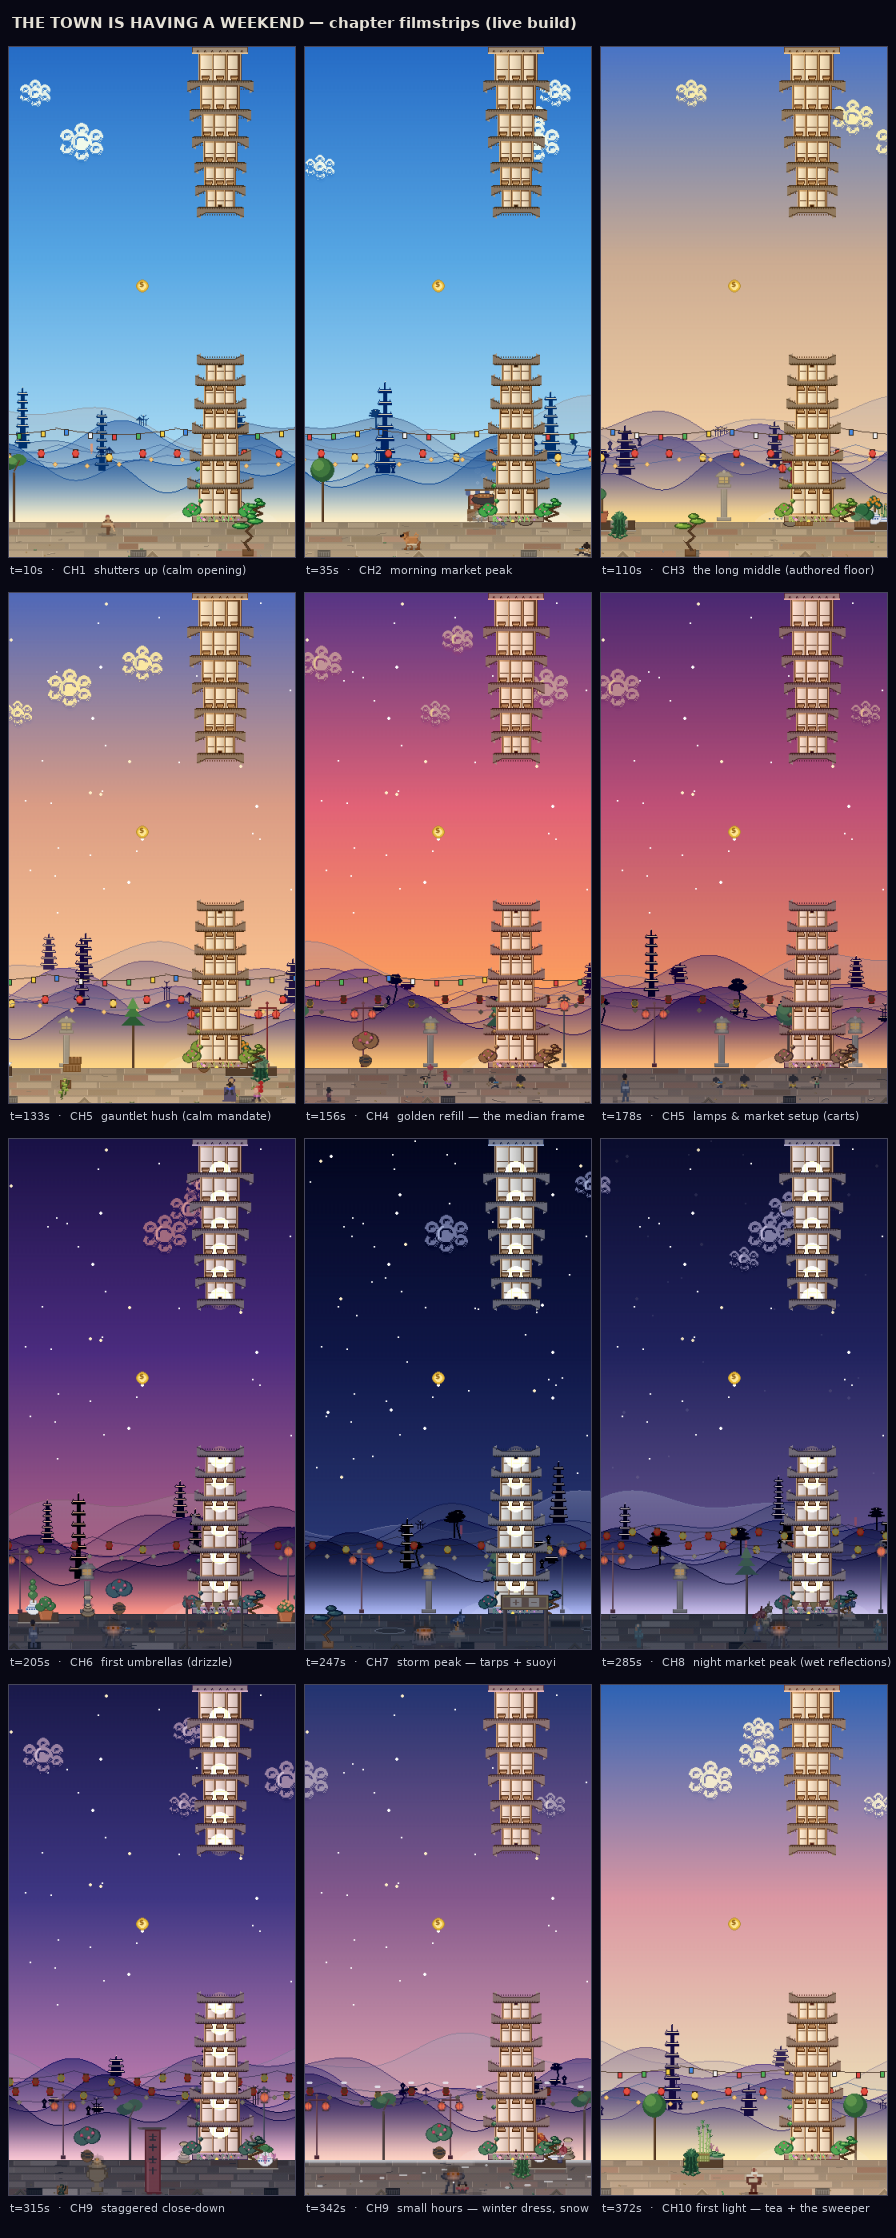
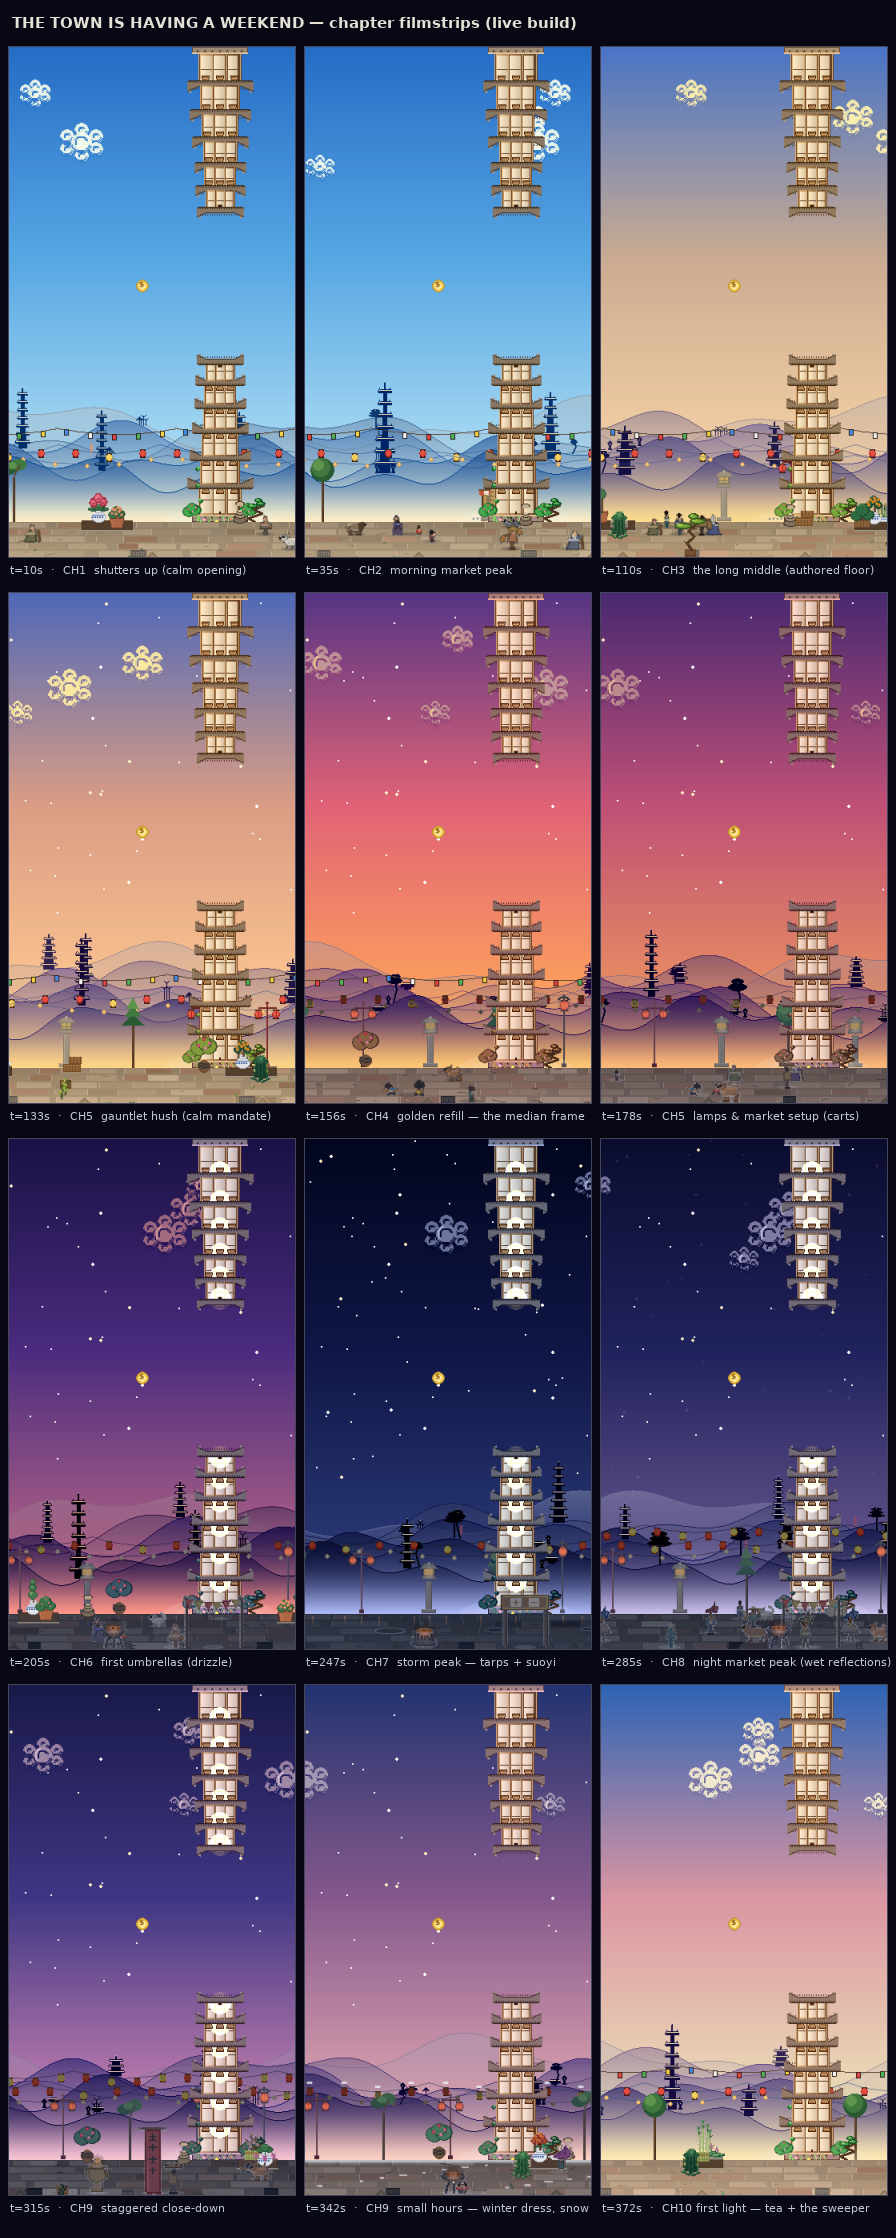
Depth round 3: population, unified value ladder, night grounding, one front pass
Critique-2 fixes. The depth ladder finally has bodies: near crowd 12-16
target / cap 18 with a flatter depth deal, scenario slots every 384 px —
busy hours now sort 20-66 depth-separated pairs on screen (was 1 across the
whole sheet). Every far cast figure rides the shared bake (sweeper, napper,
shelterers, lamplighter, the noodle-spill dog), so scale, aerial dim, outline
and shadow coverage are 100% at every phase, and the flat bake dim became a
per-tier ramp (back kerb 217 -> front 240) with the back kerb baked too —
peak luminance now rises monotonically toward the camera instead of
inverting at the lane seam. The contact cue inverts after dusk (pale lantern
pool instead of an invisible dark ellipse) and pools rather than smears; a
baked 1px silhouette outline (dark by day, pale after dusk) floors figure
contrast on wet night paving. The z-buffer now flushes in two passes around
the pillars: only back-kerb feet (<=594) draw behind them, everything sunk
into the walk joins the near lane's front pass in one true cross-lane
y-sort. Tree cadence rebalanced so most lamp gaps hold a tree.

Claude-Session: https://claude.ai/code/session_01Kj5s52r3By6kkXz6gW43nG

diff --git a/game/foreground_promenade.py b/game/foreground_promenade.py
@@ -88,18 +88,22 @@ _SHADOW_CACHE = {}
 
 
 def _shadow(surf, cx, feet_y, wpx, night):
-    """Soft contact ellipse under a cast figure — the grounding cue that
-    separates a low-contrast figure from the paving without touching either's
-    colour (the mid-walk tiers otherwise wash out against the darker back
-    plate and the lantern pools at night)."""
-    a = 55 - int(20 * min(1.0, night))
-    key = (wpx, a)
+    """Soft contact pool under a cast figure — the grounding cue that separates
+    a low-contrast figure from the paving without touching either's colour. By
+    day it is a dark cast shadow; after dusk the cue INVERTS to a faint pale
+    pool (lantern spill), because a dark ellipse does nothing on dark wet
+    stone — exactly the frames that need grounding most. Height tracks width
+    (~5:1) so a wide figure gets a pool, not a smear."""
+    dark = night < 0.5
+    h = max(3, wpx // 5)
+    key = (wpx, dark)
     sp_ = _SHADOW_CACHE.get(key)
     if sp_ is None:
-        sp_ = pygame.Surface((wpx, 4), pygame.SRCALPHA)
-        pygame.draw.ellipse(sp_, (18, 20, 30, a), (0, 0, wpx, 4))
+        sp_ = pygame.Surface((wpx, h), pygame.SRCALPHA)
+        col = (18, 20, 30, 55) if dark else (216, 224, 240, 34)
+        pygame.draw.ellipse(sp_, col, (0, 0, wpx, h))
         _SHADOW_CACHE[key] = sp_
-    surf.blit(sp_, (cx - wpx // 2, feet_y - 2))
+    surf.blit(sp_, (cx - wpx // 2, feet_y - h // 2 - 1))
 
 # ── weather the street reacts to ─────────────────────────────────────────────
 #
@@ -607,6 +611,19 @@ def draw_strollers(surf, sx, pal, *, t=0.0, umbrella=None, variant=0):
     _ped._draw_one(surf, sx, GROUND_Y - 1, pal, v, night, t)
 
 
+def _draw_shelterer(surf, sx, pal, *, t=0.0, h=0):
+    """One huddled umbrella-holder under the standard far-cast drawer contract
+    (colours dealt from the slot hash `h`), so shelterers ride the depth law's
+    bake like the rest of the cast."""
+    night = _nightf(pal)
+    base = (78 + (h >> 2 & 63), 84 + (h >> 5 & 55), 108 + (h >> 8 & 47))
+    shirt = _retint_person(base, night)
+    body_y = GROUND_Y - 1 - 8 - 3
+    _draw_bench_person(surf, sx, body_y, shirt, _shade(shirt, -34),
+                       _retint_person((60, 45, 38), night), night=night)
+    _draw_umbrella(surf, sx + 3, body_y - 6, (h >> 2), night=night)
+
+
 def _shelter_figures(surf, w, scroll, pal, t):
     """A few people standing huddled under umbrellas at stable world slots, shown
     only once the open deck has emptied (heavy rain / real snow) — so the street
@@ -616,26 +633,22 @@ def _shelter_figures(surf, w, scroll, pal, t):
     sev = max(_CUR_RAIN, _CUR_SNOW)
     if sev < 0.45:
         return
-    night = _nightf(pal)
     for sx, k in sp._world_xs(scroll, w, 250, x0=30, mult=sp.GROUND_MULT, margin=40):
         h = (k * 0x9E3779B1) & 0xFFFFFFFF
         if (h & 3) != 0:                       # ~1 in 4 slots is occupied
             continue
         bx = sx + 6 + (h >> 4 & 7)
-        base = (78 + (h >> 6 & 63), 84 + (h >> 9 & 55), 108 + (h >> 12 & 47))
-        shirt = _retint_person(base, night)
-        shirt_dk = _shade(shirt, -34)
-        hair = _retint_person((60, 45, 38), night)
-        # Standing still (sheltering) — no gait, feet planted on the kerb.
-        body_y = GROUND_Y - 1 - 8 - 3
-        def _figure(s, bx=bx, body_y=body_y, shirt=shirt, shirt_dk=shirt_dk,
-                    hair=hair, h=h):
-            _draw_bench_person(s, bx, body_y, shirt, shirt_dk, hair, night=night)
-            _draw_umbrella(s, bx + 3, body_y - 6, (h >> 2), night=night)
-        # Shelterers spread through the walk's depth like any other cast.
-        dy = 2 + (h >> 16 & 7) + (h >> 20 & 3)          # 2..12, stable per slot
-        _zbuf.enqueue(GROUND_Y - 1 + dy, TB_CAST,
-                      lambda s, f=_figure, d=dy: f(_sunk(s, d)))
+        # Shelterers spread through the walk's depth on the band's tier pitch
+        # and ride the shared bake so they scale, dim, and shadow like any
+        # other cast.
+        d_eff = _FAR_TIER_DY[(h >> 16) % 3]
+        fyc = GROUND_Y - 1 + d_eff
+
+        def _fig(s, bx=bx, h=h, fyc=fyc, d_eff=d_eff):
+            from game import foreground_near_lane as _nl
+            _nl._scaled_cast(s, _draw_shelterer, bx, _CUR_PAL,
+                             1.0 + 0.0134 * d_eff, feet_y=fyc, h=h & 0xFFFF)
+        _zbuf.enqueue(fyc, TB_CAST, _fig)
 
 
 # ── KIOSK / vendor stall: a pagoda-roofed market stall ───────────────────────
@@ -1007,9 +1020,10 @@ def _ground_furniture(surf, w, scroll, pal, fd=1.0):
 # world-anchored, no flicker (same idiom as the mountain-ornament fix). Members
 # animate in place from the live clock `t`; positions ride the scroll.
 
-_SCENARIO_PERIOD = 640          # world-px between scene SLOTS -> lots of open road;
-                                # most calm slots are also empty (density gate), so a
-                                # vignette is an occasional event, not a metronome.
+_SCENARIO_PERIOD = 384          # world-px between scene SLOTS — dense enough that a
+                                # busy hour keeps ~1 vignette on screen (the depth
+                                # ladder needs bodies to sort); calm hours still read
+                                # open because the density gate empties most slots.
 _SCENE_MARGIN = 220             # wide enough to slide a whole scene in/out smoothly
 
 # ── re-themed cast + hero beats (Chinese market) ──────────────────────────────
@@ -1437,8 +1451,9 @@ def _scene_pastoral(emit, bx, pal, t, rng, pick=None):
                                dict(t=t, kind=rng.choice(('pigeons', 'cat', 'hen', 'duck')))))
 
 def _scene_lamplighter(emit, bx, pal, t, rng, pick=None):
-    """A lamplighter kindling the street lanterns at dusk."""
-    emit(TB_CAST, lambda s: draw_lamplighter(s, bx, pal, t=t), dy=2)
+    """A lamplighter kindling the street lanterns at dusk — on the back kerb,
+    where the lamps stand."""
+    emit(TB_CAST, dy=0, cast=(draw_lamplighter, bx, dict(t=t)))
 
 def _scene_dawn_setup(emit, bx, pal, t, rng, pick=None):
     """Vendors assembling the morning market."""
@@ -1498,17 +1513,25 @@ def _happenings(surf, scroll, pal, phase, t):
             bob = 1 if (k > 0.62 and int(t * 6) % 2) else 0
             _zbuf.enqueue(GROUND_Y + 8, TB_CAST, lambda s, sx=sx, spill=spill: (
                 pygame.draw.rect(s, spill, (sx - 2, GROUND_Y + 6, 4, 2))))
-            _zbuf.enqueue(GROUND_Y + 8, TB_CAST,
-                          lambda s, dog_x=dog_x, bob=bob: draw_dog(
-                              _sunk(s, 9), dog_x, pal, t=t, variant=2 + bob))
+
+            def _hdog(s, dog_x=dog_x, bob=bob):
+                from game import foreground_near_lane as _nl
+                _nl._scaled_cast(s, draw_dog, dog_x, pal, 1.0 + 0.0134 * 9,
+                                 feet_y=GROUND_Y + 8, t=t, variant=2 + bob)
+            _zbuf.enqueue(GROUND_Y + 8, TB_CAST, _hdog)
+
+
+def draw_sweeper_cast(surf, sx, pal, *, t=0.0, ph=0.0):
+    """Signature adapter: the weekend kit's sweeper under the standard far-cast
+    drawer contract, so it rides the depth law's bake like everyone else."""
+    _wkit.draw_sweeper(surf, sx, GROUND_Y - 1, _nightf(pal), t, phase=ph, pal=pal)
 
 
 def _scene_sweeper(emit, bx, pal, t, rng, pick=None):
     """The first inhabitant of the morning: the sweeper working a besom over
     yesterday's street, pile inching ahead of the twigs."""
     ph = rng.random() * 1.3
-    emit(TB_CAST, lambda s: _wkit.draw_sweeper(s, bx, GROUND_Y - 1, _nightf(pal),
-                                               t, phase=ph, pal=pal), dy=8)
+    emit(TB_CAST, dy=9, cast=(draw_sweeper_cast, bx, dict(t=t, ph=round(ph, 2))))
 
 
 def _scene_bench(emit, bx, pal, t, rng, pick=None):
@@ -1539,7 +1562,7 @@ def _scene_stroll(emit, bx, pal, t, rng, pick=None):
 
 def _scene_rest(emit, bx, pal, t, rng, pick=None):
     """A napper on a mat."""
-    emit(TB_CAST, lambda s: draw_napper(s, bx, pal, t=t), dy=6)
+    emit(TB_CAST, dy=9, cast=(draw_napper, bx, dict(t=t)))
 
 def _scene_campfire(emit, bx, pal, t, rng, pick=None):
     """A campfire with cozy pool adults + kids gathered (lit by the drawer at night)."""
@@ -1957,21 +1980,18 @@ def _place_scenarios(surf, w, scroll, pal, t, roster, density, x0=40):
                 if cast is not None:
                     drawer, x, kw = cast
                     d_eff = _FAR_TIER_DY[max(0, min(2, _far_tier(dy) + tshift))]
-                    if d_eff:
-                        fyc = GROUND_Y - 1 + d_eff
-                        sc = 1.0 + 0.0134 * d_eff
+                    fyc = GROUND_Y - 1 + d_eff
+                    sc = 1.0 + 0.0134 * d_eff
 
-                        def _draw(s, drawer=drawer, x=x, kw=kw, fyc=fyc, sc=sc):
-                            # _scaled_cast draws the contact shadow itself.
-                            from game import foreground_near_lane as _nl
-                            _nl._scaled_cast(s, drawer, x, _CUR_PAL, sc,
-                                             feet_y=fyc, **kw)
-                        _zbuf.enqueue(fyc, tier, _draw)
-                    else:
-                        def _draw(s, drawer=drawer, x=x, kw=kw):
-                            _shadow(s, x, GROUND_Y - 1, 16, _nightf(_CUR_PAL))
-                            drawer(s, x, _CUR_PAL, **kw)
-                        _zbuf.enqueue(GROUND_Y - 1, tier, _draw)
+                    def _draw(s, drawer=drawer, x=x, kw=kw, fyc=fyc, sc=sc):
+                        # _scaled_cast draws the contact shadow + aerial dim +
+                        # outline itself; the back kerb goes through the same
+                        # bake at scale 1.0 so the band's value ladder has no
+                        # native/baked seam.
+                        from game import foreground_near_lane as _nl
+                        _nl._scaled_cast(s, drawer, x, _CUR_PAL, sc,
+                                         feet_y=fyc, **kw)
+                    _zbuf.enqueue(fyc, tier, _draw)
                     return
                 if dy:
                     _zbuf.enqueue(GROUND_Y - 1 + dy, tier,

diff --git a/game/foreground_near_lane.py b/game/foreground_near_lane.py
@@ -249,11 +249,17 @@ def _scaled_cast(surf, cast_fn, sx, pal, scale, *, t=0.0, feet_y=NEAR_GROUND_Y,
     # loop collapses the key space to _CAST_WRAP frames per variant (the once-
     # per-8 s phase seam is invisible at this figure scale).
     tb = int(t * _CAST_FPS) % _CAST_WRAP
+    # Aerial perspective: the dim deepens with distance from the front kerb, so
+    # the band's value ladder agrees with its size ladder (a flat dim left the
+    # deepest tier the brightest — an inverted depth cue). ~2% per 9 px tier;
+    # the front kerb keeps the original 240 don't-outshine-the-parrot cap.
+    dv = 240 - int(max(0, NEAR_GROUND_Y - feet_y) * 0.52)
+    night = _nightf(pal)
     # Key on the biome phase BUCKET (set per frame by draw_near_lane), not id(pal):
     # the play palette is a fresh dict every frame, so id(pal) only ever hits within
     # a frame -- bucketing lets the bake survive across frames.
     key = (cast_fn.__name__, foot_w, foot_h, ss, smooth, pr._CUR_BUCKET, tb, flip,
-           tuple(sorted(kw.items())))
+           dv, tuple(sorted(kw.items())))
 
     def _render(scratch):
         deck = render_box[1] - 1         # scratch deck near the bottom edge
@@ -263,17 +269,32 @@ def _scaled_cast(surf, cast_fn, sx, pal, scale, *, t=0.0, feet_y=NEAR_GROUND_Y,
             cast_fn(scratch, render_box[0] // 2, pal, t=tb / _CAST_FPS, **kw)
         finally:
             pr.GROUND_Y = saved
+        # 1 px silhouette outline, baked with the figure: dark against day
+        # paving, pale after dusk (when the wet/dark ground swallows a dark
+        # edge) — the floor that keeps a figure findable at the low-contrast
+        # tiers regardless of its own fabric colours.
+        oc = (26, 30, 42, 130) if night < 0.45 else (172, 182, 202, 120)
+        try:
+            m = pygame.mask.from_surface(scratch)
+            wmax, hmax = scratch.get_size()
+            for px, py in m.outline(2):
+                for nx, ny_ in ((px - 1, py), (px + 1, py), (px, py - 1), (px, py + 1)):
+                    if (0 <= nx < wmax and 0 <= ny_ < hmax
+                            and scratch.get_at((nx, ny_)).a == 0):
+                        scratch.set_at((nx, ny_), oc)
+        except (pygame.error, IndexError):
+            pass
 
     # A LARGE near figure shouldn't pull focus from the parrot: knock its
     # brightest fabric down ~6% (applied pre-resample so a smoothscale averages
     # already-dimmed pixels).
     big = _spr.baked_sprite(key, render_box, (foot_w, foot_h), _render,
-                            dim=(240, 240, 240), smooth=smooth, flip=flip)
+                            dim=(dv, dv, dv), smooth=smooth, flip=flip)
     sw, _sh = big.get_size()
     # Contact shadow first, so every baked figure (crowd, performers, far-lane
     # scaled cast) is grounded and stays separable from the paving at the
     # low-contrast tiers.
-    pr._shadow(surf, sx, feet_y - 1, max(12, int(18 * scale)), _nightf(pal))
+    pr._shadow(surf, sx, feet_y - 1, max(12, int(18 * scale)), night)
     surf.blit(big, (sx - sw // 2, feet_y - foot_h))
 
 

diff --git a/game/foreground_zbuffer.py b/game/foreground_zbuffer.py
@@ -10,11 +10,14 @@ last and overlays one whose feet are higher.
 Selection (the `_world_xs`/`_slot_latch`/`_latch_prune` loops) is unchanged and
 still runs every frame; only the paint is deferred into a captured closure.
 
-Cross-lane depth is handled by WHERE each lane flushes relative to the gameplay
-pillars (see foreground.py / scenes.py): the far lane flushes behind the pillars,
-the near lane flushes in front of them — pillar bases sit between the two lanes'
-ground lines, so this places everything at the right depth without sorting the
-full-height pillar geometry into the queue.
+Cross-lane depth is handled by WHERE the queue flushes relative to the gameplay
+pillars (see foreground.py / scenes.py): pillar geometry bottoms out on the back
+kerb (y 594), so the far pass flushes only draws whose feet sit ON that kerb
+(behind the pillars), and everything deeper — far cast sunk into the walk AND
+the whole near lane — stays queued and flushes in front of the pillars, in ONE
+sorted pass. That both matches the ground plane (a figure standing 2-18 px in
+front of a pillar's base line must not draw behind the pillar) and gives true
+cross-lane y-sorting for free.
 """
 from __future__ import annotations
 
@@ -47,14 +50,21 @@ def enqueue(base_y, tiebreak, fn):
     _SEQ += 1
 
 
-def flush(surf):
-    """Paint everything queued so far, back-to-front, then clear the queue. The
-    `seq` term makes the sort total + deterministic and preserves submission order
-    within a (base_y, tiebreak) group (e.g. a performer enqueued after its crowd
-    still draws over it)."""
+def flush(surf, up_to=None):
+    """Paint queued draws back-to-front, then drop what was painted. With
+    `up_to`, only entries whose base_y <= up_to paint (the back-kerb pass that
+    runs behind the pillars); the rest stay queued for the front pass. The
+    `seq` term makes the sort total + deterministic and preserves submission
+    order within a (base_y, tiebreak) group (e.g. a performer enqueued after
+    its crowd still draws over it)."""
+    global _QUEUE
     if not _QUEUE:
         return
-    _QUEUE.sort(key=lambda c: (c[0], c[1], c[2]))
-    for _by, _tb, _seq, fn in _QUEUE:
+    if up_to is None:
+        batch, _QUEUE = _QUEUE, []
+    else:
+        batch = [c for c in _QUEUE if c[0] <= up_to]
+        _QUEUE = [c for c in _QUEUE if c[0] > up_to]
+    batch.sort(key=lambda c: (c[0], c[1], c[2]))
+    for _by, _tb, _seq, fn in batch:
         fn(surf)
-    _QUEUE.clear()

diff --git a/game/sidewalk_crowd.py b/game/sidewalk_crowd.py
@@ -31,9 +31,9 @@ _FAMILY = {"stroller": "pedestrian", "kids": "kid", "dog": "dog"}
 _SALT = {"stroller": 31, "kids": 41, "dog": 51}   # match the legacy per-row salts
 _GAIT_RATE = {"stroller": 1.0, "kids": 1.2, "dog": 1.9}
 
-_NEAR_CAP = 10             # hard ceiling regardless of density (perf)
-_BASE_N = 6               # target near-lane living count at full density
-_MARKET_N = 9             # fuller front lane through the night-market window
+_NEAR_CAP = 18             # hard ceiling regardless of density (perf)
+_BASE_N = 12              # target near-lane living count at full density
+_MARKET_N = 16            # fuller front lane through the night-market window
 _SPAWN_MARGIN = 120       # spawn/cull this far off the screen edges (world px)
 _SPAWN_COOLDOWN = 0.35    # min seconds between spawns (so they don't enter as a wall)
 _LEAVE_STAGGER = 0.8      # seconds between departures when the street empties
@@ -125,10 +125,12 @@ class SidewalkCrowd:
         e.facing = 1 if e.walk_vel > 0 else -1
         e.wave = 0.0
         # Depth across the front walk, dealt for the entity's whole life: 0 =
-        # the walk's mid-line, 1 = the kerb nearest the camera. Bottom-weighted
-        # so the front edge stays the busiest but no longer the only line, and
-        # nearer figures drift a touch faster for a cheap parallax read.
-        e.depth = random.random() ** 0.6
+        # the walk's mid-line, 1 = the kerb nearest the camera. Mildly
+        # bottom-weighted — the front edge stays the busiest, but every tier
+        # gets real traffic (a steeper curve starved the back tiers so the
+        # depth ladder had nothing to show) — and nearer figures drift a touch
+        # faster for a cheap parallax read.
+        e.depth = random.random() ** 0.85
         e.walk_vel *= 0.90 + 0.10 * e.depth
         self.near.append(e)
 

diff --git a/game/foreground.py b/game/foreground.py
@@ -120,17 +120,19 @@ def draw_ground_weather(surf, scroll, pal, wetness, snow_cover):
 
 
 def draw_promenade(surf, scroll, pal, phase, t):
-    """Draw the FAR promenade props + living cast on the sidewalk, depth-sorted by
-    feet-Y. Flushed here (in _draw_background, before the gameplay pillars) so the
-    far lane sits BEHIND the pillars, as it always has."""
+    """Enqueue the FAR promenade props + living cast, then flush ONLY the
+    back-kerb entries (feet <= 594, where the pillar bases sit) behind the
+    pillars. Cast sunk INTO the walk stays queued — a figure standing in front
+    of a pillar's ground line must not draw behind the pillar — and paints in
+    draw_near_lane's front pass, y-sorted together with the near crowd."""
     _zbuf.reset()
     _promenade.draw_promenade(surf, scroll, pal, phase, t)   # enqueue only
-    _zbuf.flush(surf)
+    _zbuf.flush(surf, up_to=GROUND_Y - 1)
 
 
 def draw_near_lane(surf, scroll, pal, phase, t):
-    """Draw the NEAR/front activity lane, depth-sorted by feet-Y. Flushed here —
-    relocated in scenes._render to run AFTER the gameplay pillars — so near-lane
-    plants/people (feet lower on screen) occlude the pillar bases."""
+    """Draw everything deeper than the back kerb — the far lane's sunk cast
+    plus the whole near lane — in ONE y-sorted pass. Runs AFTER the gameplay
+    pillars in scenes._render, so all of it correctly occludes pillar bases."""
     _near.draw_near_lane(surf, scroll, pal, phase, t, crowd=_crowd)  # enqueue only
     _zbuf.flush(surf)

diff --git a/game/foreground_weekend.py b/game/foreground_weekend.py
@@ -171,7 +171,9 @@ def plant_scheme(world_x):
     b = int(world_x // BLOCK_PX)
     h = _mix((b * 0xB5297A4D) ^ _run_seed ^ 0x9E37)
     r = h & 0xFF
-    cadence = 0 if r < 38 else (2 if r < 128 else 1)
+    # Mostly full rows: lamp–tree–lamp only reads as a rhythm when most lamp
+    # gaps actually hold a tree, so unplanted stretches are the exception.
+    cadence = 0 if r < 20 else (2 if r < 84 else 1)
     return cadence, (h >> 8) & 0xFFFF, ((h >> 24) & 0xFF) < 76
 
 
